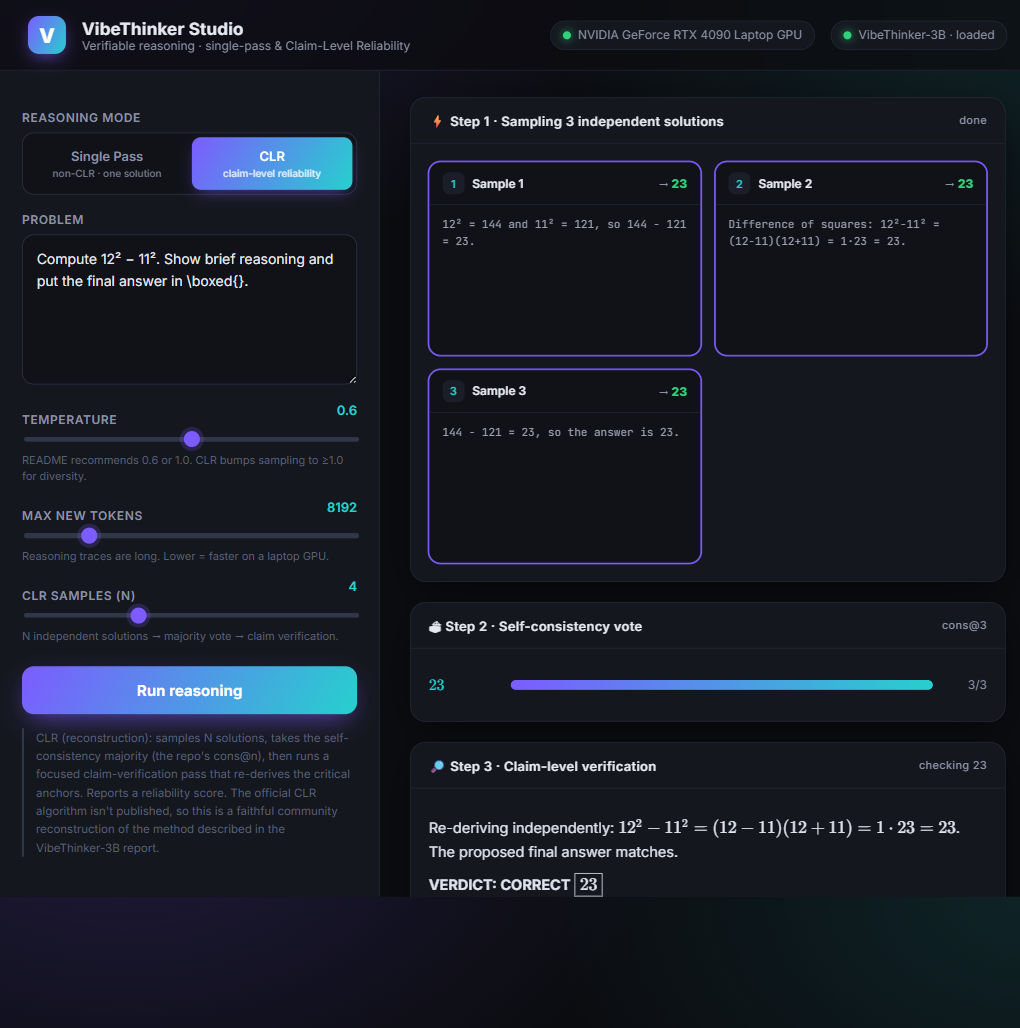
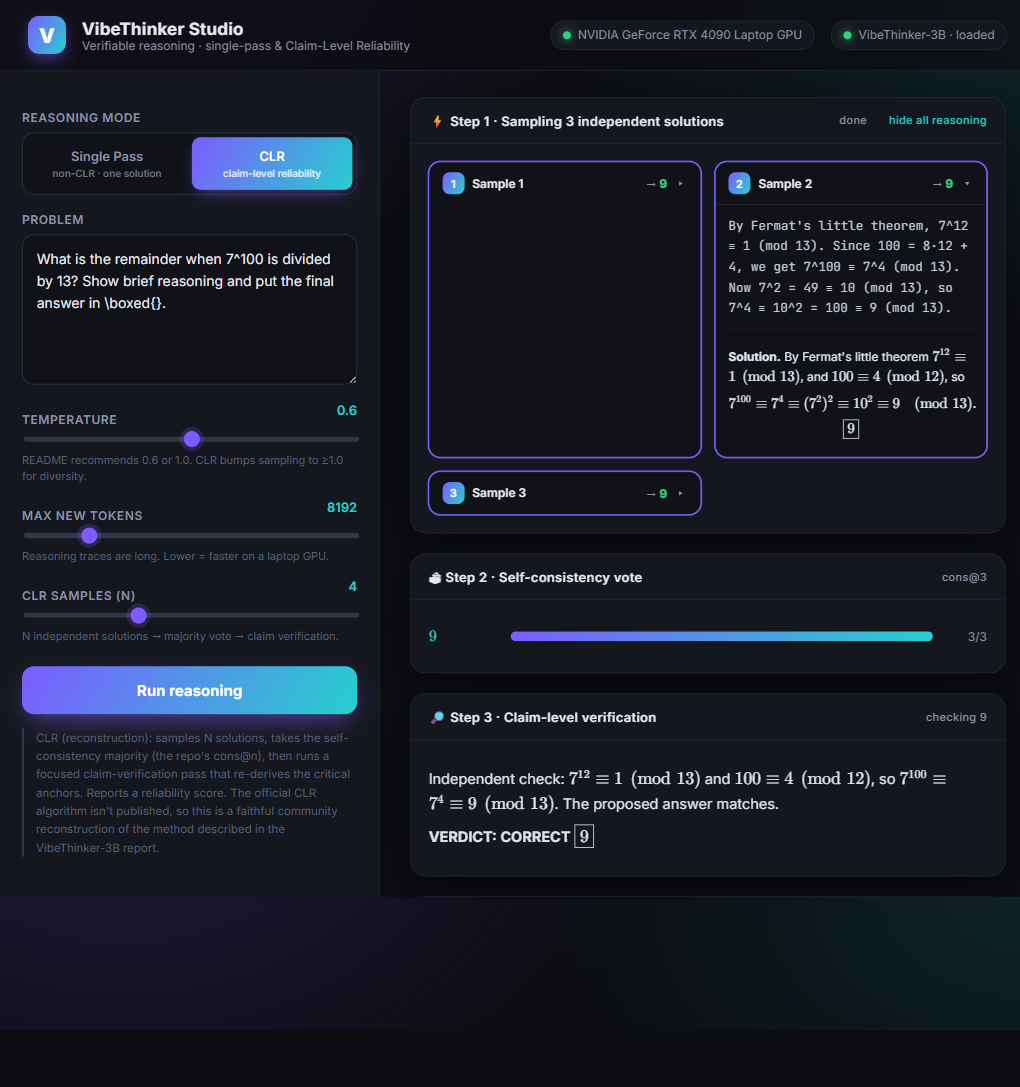
CLR UI: per-solution show/hide reasoning + clearer self-consistency
- Each candidate card's reasoning trace is collapsible (toggle per solution),
  collapsed by default once a sample completes; "hide/show all reasoning" control
- Finished candidates render reasoning (mono) + rendered Markdown solution
- Winning candidates (matching the consensus answer) are highlighted
- Final card now shows the self-consistency (cons@N) pick alongside the
  verified final answer, noting when verification overrode the vote

diff --git a/web/index.html b/web/index.html
@@ -121,14 +121,21 @@
   .cands{display:grid;grid-template-columns:repeat(auto-fill,minmax(260px,1fr));gap:14px}
   .cand{background:var(--bg2);border:1px solid var(--line);border-radius:12px;overflow:hidden;
     display:flex;flex-direction:column}
-  .cand-h{display:flex;align-items:center;gap:8px;padding:10px 13px;border-bottom:1px solid var(--line);font-size:12px;font-weight:600}
+  .cand-h{display:flex;align-items:center;gap:8px;padding:10px 13px;border-bottom:1px solid var(--line);font-size:12px;font-weight:600;cursor:pointer;user-select:none}
+  .cand.collapsed .cand-h{border-bottom:0}
   .cand-h .n{width:22px;height:22px;border-radius:7px;background:var(--panel2);display:grid;place-items:center;font-size:11px;color:var(--accent2)}
   .cand-h .ans{margin-left:auto;font-size:12px;color:var(--muted)}
   .cand-h .ans b{color:var(--good)}
-  .cand-t{font-family:'JetBrains Mono',ui-monospace,monospace;font-size:11px;line-height:1.55;
-    white-space:pre-wrap;word-break:break-word;color:#9aa0b3;padding:11px 13px;
-    height:150px;overflow-y:auto}
+  .cand-h .chev{color:var(--muted);font-size:10px;transition:.2s;width:12px;text-align:center}
+  .cand.collapsed .chev{transform:rotate(-90deg)}
+  .cand.collapsed .cand-t{display:none}
+  .cand-t{font-size:11px;line-height:1.55;color:#9aa0b3;padding:11px 13px;
+    max-height:340px;overflow-y:auto}
+  .cand-t .trace{font-family:'JetBrains Mono',ui-monospace,monospace;white-space:pre-wrap;word-break:break-word}
+  .cand-t .solution{font-size:12px;margin-top:10px;border-top:1px dashed var(--line);padding-top:10px}
+  .cand-t.streaming{font-family:'JetBrains Mono',ui-monospace,monospace;white-space:pre-wrap;word-break:break-word}
   .cand.win{border-color:var(--accent);box-shadow:0 0 0 1px var(--accent)}
+  .cand.win .cand-h .n{background:var(--grad);color:#fff}
 
   /* vote bars */
   .vote{display:flex;align-items:center;gap:12px;margin:9px 0}
@@ -389,13 +396,18 @@ async function runCLR(prompt){
   let cards="";
   for(let i=0;i<N;i++) cards+=`
     <div class="cand" id="c${i}">
-      <div class="cand-h"><span class="n">${i+1}</span> Sample ${i+1}
-        <span class="ans" id="ca${i}">…</span></div>
-      <div class="cand-t" id="ct${i}"><span class="blink"></span></div>
+      <div class="cand-h" onclick="this.closest('.cand').classList.toggle('collapsed')">
+        <span class="n">${i+1}</span> Sample ${i+1}
+        <span class="ans" id="ca${i}">…</span>
+        <span class="chev" title="show / hide reasoning">▾</span></div>
+      <div class="cand-t streaming" id="ct${i}"><span class="blink"></span></div>
     </div>`;
   stage().innerHTML=`
     <div class="card">
-      <div class="card-h">⚡ Step 1 · Sampling ${N} independent solutions <span class="tag" id="phase">running…</span></div>
+      <div class="card-h">⚡ Step 1 · Sampling ${N} independent solutions
+        <span class="tag" id="phase" style="margin-left:auto">running…</span>
+        <span class="tag clickable" id="toggleAll" onclick="toggleAllCands()"
+          style="margin-left:12px;cursor:pointer;color:var(--accent2)">hide all reasoning</span></div>
       <div class="card-b"><div class="cands">${cards}</div></div>
     </div>
     <div class="card" id="voteCard" style="display:none">
@@ -411,8 +423,10 @@ async function runCLR(prompt){
       <div class="card-b">
         <div class="gauge">
           <div class="ring" id="ring"><div class="in" id="ringV">0%</div></div>
-          <div>
-            <div class="lab" style="font-size:11px;color:var(--muted);text-transform:uppercase;letter-spacing:.8px">Selected answer</div>
+          <div style="flex:1">
+            <div class="lab" style="font-size:11px;color:var(--muted);text-transform:uppercase;letter-spacing:.8px">Self-consistency · cons@${N}</div>
+            <div id="consV" style="font-size:16px;font-weight:600;margin:3px 0 12px;color:var(--txt)"></div>
+            <div class="lab" style="font-size:11px;color:var(--muted);text-transform:uppercase;letter-spacing:.8px">Final answer (after claim verification)</div>
             <div class="v" id="finV" style="font-size:26px;font-weight:700;margin:4px 0 10px"></div>
             <span class="verdict" id="finVerdict"></span>
           </div>
@@ -420,23 +434,25 @@ async function runCLR(prompt){
         <div class="note">${NOTES.clr}</div>
       </div>
     </div>`;
-  const txts=Array(N).fill("");
+  const txts=Array(N).fill(""); const answers=Array(N).fill(null);
   abort=new AbortController();
   try{
     const resp=await fetch("/api/generate_clr",{method:"POST",headers:{"Content-Type":"application/json"},
       body:JSON.stringify(body()),signal:abort.signal});
     for await (const ev of sse(resp)){
-      if(ev.type==="sample_start"){ $("#phase").textContent=`sample ${ev.index+1}/${N}…`; }
+      if(ev.type==="sample_start"){ $("#phase").textContent=`sample ${ev.index+1}/${N}…`;
+        $("#c"+ev.index)?.classList.remove("collapsed"); }
       else if(ev.type==="sample_token"){ const i=ev.index; txts[i]+=ev.text;
-        const el=$("#ct"+i); el.innerHTML=esc(txts[i])+'<span class="blink"></span>'; el.scrollTop=el.scrollHeight; }
-      else if(ev.type==="sample_done"){ const i=ev.index;
-        $("#ct"+i).innerHTML=esc(txts[i]);
-        $("#ca"+i).innerHTML = ev.answer!=null ? `→ <b>${answerHTML(ev.answer)}</b>` : "→ —"; }
-      else if(ev.type==="votes"){ renderVotes(ev.votes, ev.leader, N); }
+        const {think,sol}=splitThink(txts[i]);
+        const el=$("#ct"+i); el.innerHTML=esc(sol?think+"\n…":think)+'<span class="blink"></span>'; el.scrollTop=el.scrollHeight; }
+      else if(ev.type==="sample_done"){ const i=ev.index; answers[i]=ev.answer;
+        renderCandidate(i, txts[i]);
+        $("#ca"+i).innerHTML = ev.answer!=null ? `→ <b>${answerHTML(ev.answer)}</b>` : "→ —";
+        $("#c"+i).classList.add("collapsed"); }   // collapse once done; user can re-open
+      else if(ev.type==="votes"){ renderVotes(ev.votes, ev.leader, N);
+        for(let i=0;i<N;i++) $("#c"+i)?.classList.toggle("win", answers[i]!=null && answers[i]===ev.leader); }
       else if(ev.type==="phase" && ev.phase==="verifying"){
-        $("#verCard").style.display="block"; $("#verTag").innerHTML="checking "+answerHTML(ev.candidate);
-        // highlight winning candidate cards
-        for(let i=0;i<N;i++){} }
+        $("#verCard").style.display="block"; $("#verTag").innerHTML="checking "+answerHTML(ev.candidate); }
       else if(ev.type==="verify_token"){ const t=$("#verTr");
         t.dataset.x=(t.dataset.x||"")+ev.text;
         const {think,sol}=splitThink(t.dataset.x);
@@ -450,6 +466,24 @@ async function runCLR(prompt){
     }
   }catch(e){ if(e.name!=="AbortError") stage().insertAdjacentHTML("beforeend",`<div class="card"><div class="card-b"><span class="err">${esc(""+e)}</span></div></div>`); }
   setRunning(false);
+}
+
+// render a finished candidate: reasoning trace (mono) + rendered solution
+function renderCandidate(i, full){
+  const {think, sol} = splitThink(full);
+  const el = $("#ct"+i); el.classList.remove("streaming"); el.innerHTML="";
+  const tr = document.createElement("div"); tr.className="trace";
+  tr.textContent = (think||full).trim() || "(no reasoning captured)";
+  el.appendChild(tr);
+  if(sol){ const s=document.createElement("div"); s.className="solution"; renderSolution(s, sol); el.appendChild(s); }
+}
+
+// expand / collapse every candidate's reasoning at once
+function toggleAllCands(){
+  const cands=[...document.querySelectorAll(".cand")];
+  const anyOpen=cands.some(c=>!c.classList.contains("collapsed"));
+  cands.forEach(c=>c.classList.toggle("collapsed", anyOpen));
+  const t=$("#toggleAll"); if(t) t.textContent = anyOpen ? "show all reasoning" : "hide all reasoning";
 }
 
 function renderVotes(votes, leader, N){
@@ -467,13 +501,23 @@ function showFinal(ev,N){
   $("#finCard").style.display="block";
   const pct=Math.round((ev.reliability||0)*100);
   const ring=$("#ring"); ring.style.setProperty("--p",pct); $("#ringV").textContent=pct+"%";
+  // self-consistency (cons@N): the majority answer + its vote share
+  const votes=ev.votes||{};
+  const ent=Object.entries(votes).sort((a,b)=>b[1]-a[1]);
+  const consEl=$("#consV");
+  if(consEl){
+    if(ent.length){ const [k,c]=ent[0];
+      consEl.innerHTML = `${answerHTML(k)} <span style="color:var(--muted);font-weight:500">· ${c}/${N} samples agree</span>`;
+    } else consEl.innerHTML = `<span style="color:var(--faint)">no extractable answers</span>`;
+  }
   $("#finV").innerHTML=answerHTML(ev.answer);
+  const consLeader=ent.length?ent[0][0]:null;
   const v=$("#finVerdict");
   if(ev.verdict){ v.className="verdict "+ev.verdict;
-    v.innerHTML=({CORRECT:"✓ verifier agrees",INCORRECT:"✗ verifier disagrees",UNCERTAIN:"~ verifier uncertain"})[ev.verdict]||ev.verdict; }
-  else v.style.display="none";
-  // mark winning candidate cards
-  for(let i=0;i<N;i++){ const a=$("#ca"+i)?.textContent||""; }
+    const changed = consLeader!=null && ev.answer!=null && String(ev.answer)!==String(consLeader);
+    const base=({CORRECT:"✓ verifier agrees",INCORRECT:"✗ verifier disagrees",UNCERTAIN:"~ verifier uncertain"})[ev.verdict]||ev.verdict;
+    v.innerHTML = changed ? base+" · verification overrode the vote" : base;
+  } else v.style.display="none";
 }
 </script>
 </body>

diff --git a/README.md b/README.md
@@ -6,7 +6,7 @@ A beautiful local web app for running **[VibeThinker-3B](https://github.com/Weib
 | Mode | What it does |
 |------|--------------|
 | **Single Pass** (non‑CLR) | One generation with the model's recommended sampling. Streams the `<think>` reasoning trace, then renders a clean Markdown **Solution** (with syntax‑highlighted code + KaTeX math) and auto‑extracts the final `\boxed{}` answer. |
-| **CLR** (Claim‑Level Reliability) | Samples **N** independent solutions → takes the **self‑consistency majority** (`cons@n`) → runs a focused **claim‑verification** pass that re‑derives the critical anchors → reports a **reliability score** and the selected answer. |
+| **CLR** (Claim‑Level Reliability) | Samples **N** independent solutions → takes the **self‑consistency majority** (`cons@n`) → runs a focused **claim‑verification** pass that re‑derives the critical anchors → reports a **reliability score** and the selected answer. Each candidate's reasoning trace is **collapsible (show/hide per solution)**, with a "hide all reasoning" toggle; the final card surfaces both the **self‑consistency** pick and the **verified** answer. |
 
 > Both modes use the **same weights** — CLR is an inference‑time strategy, not a different checkpoint.
 